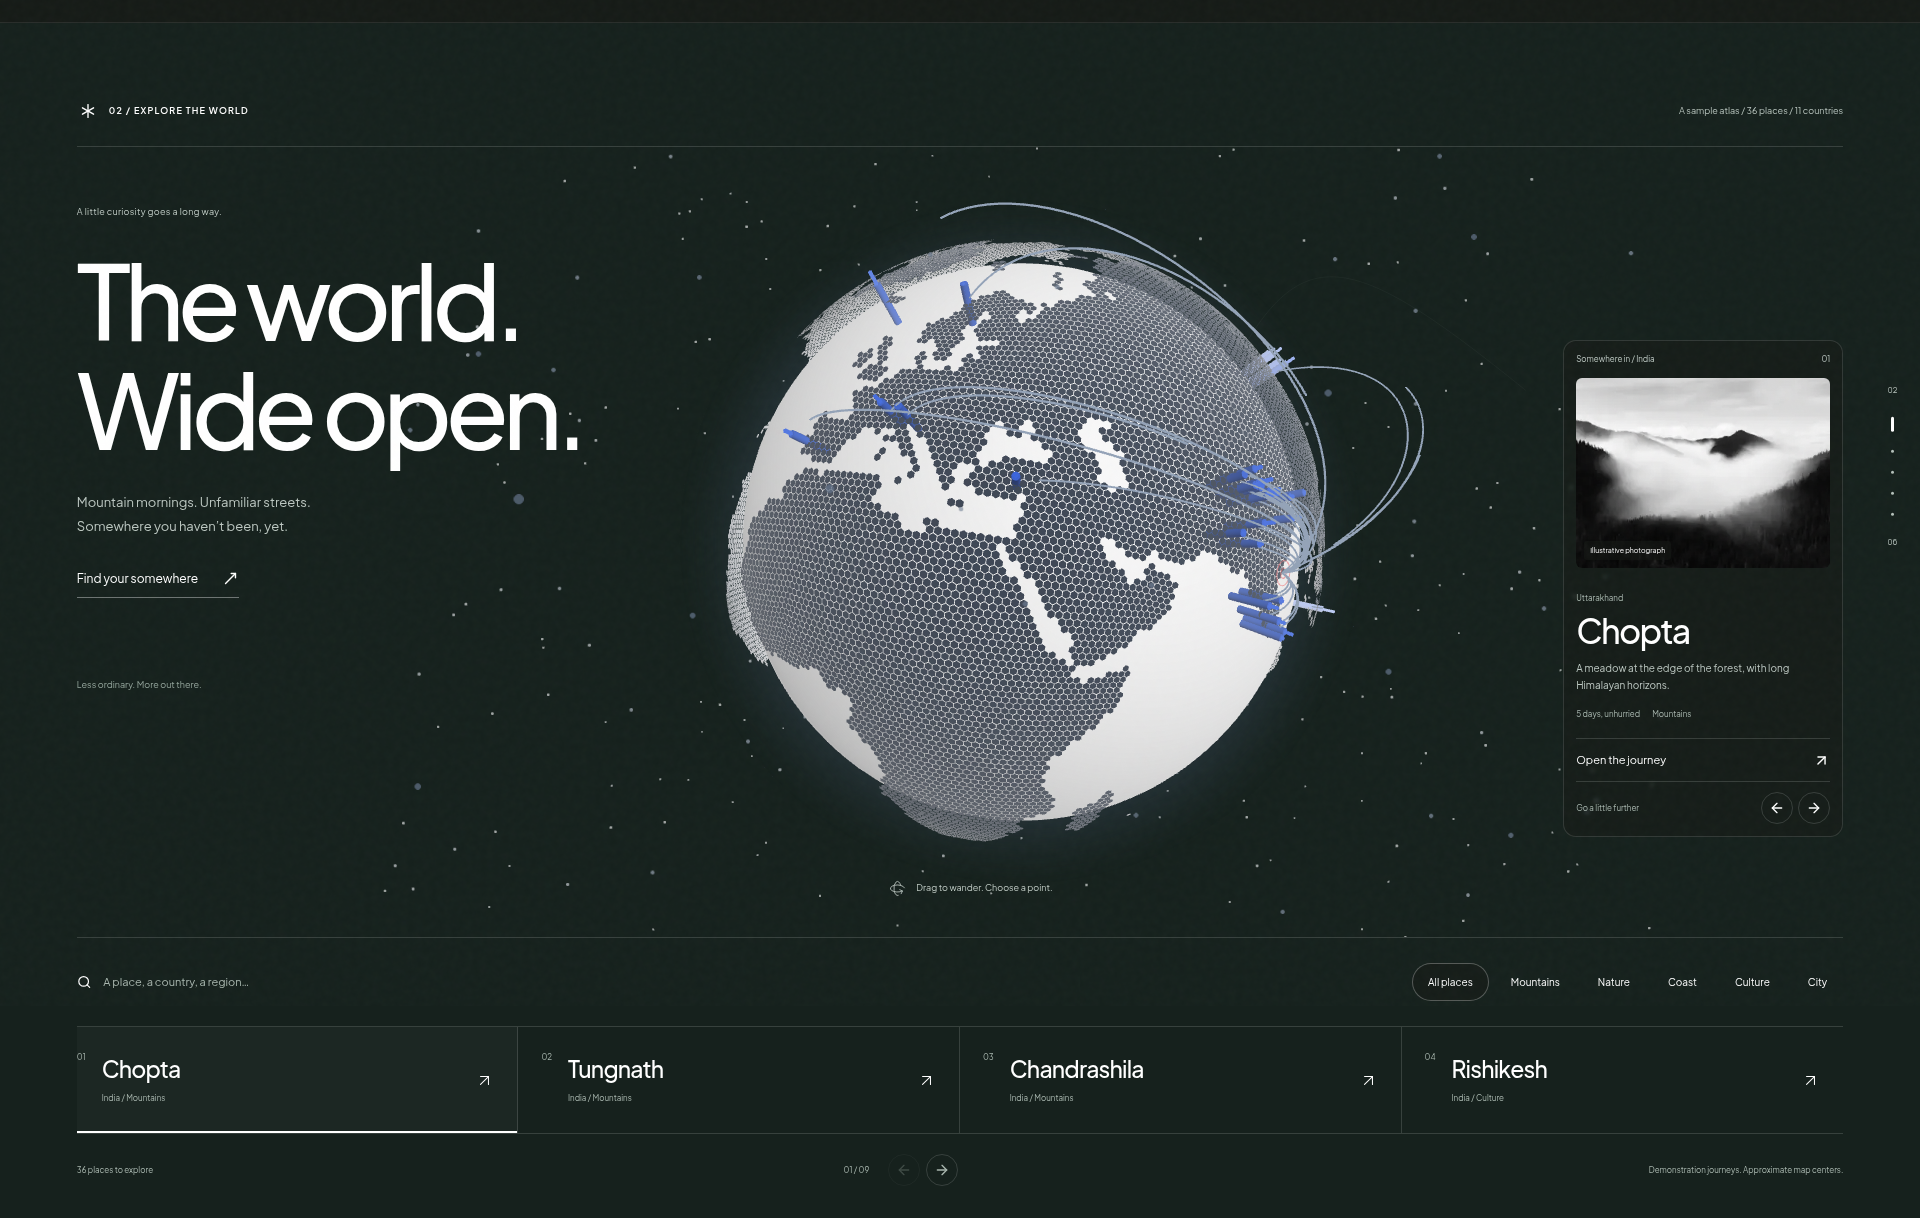
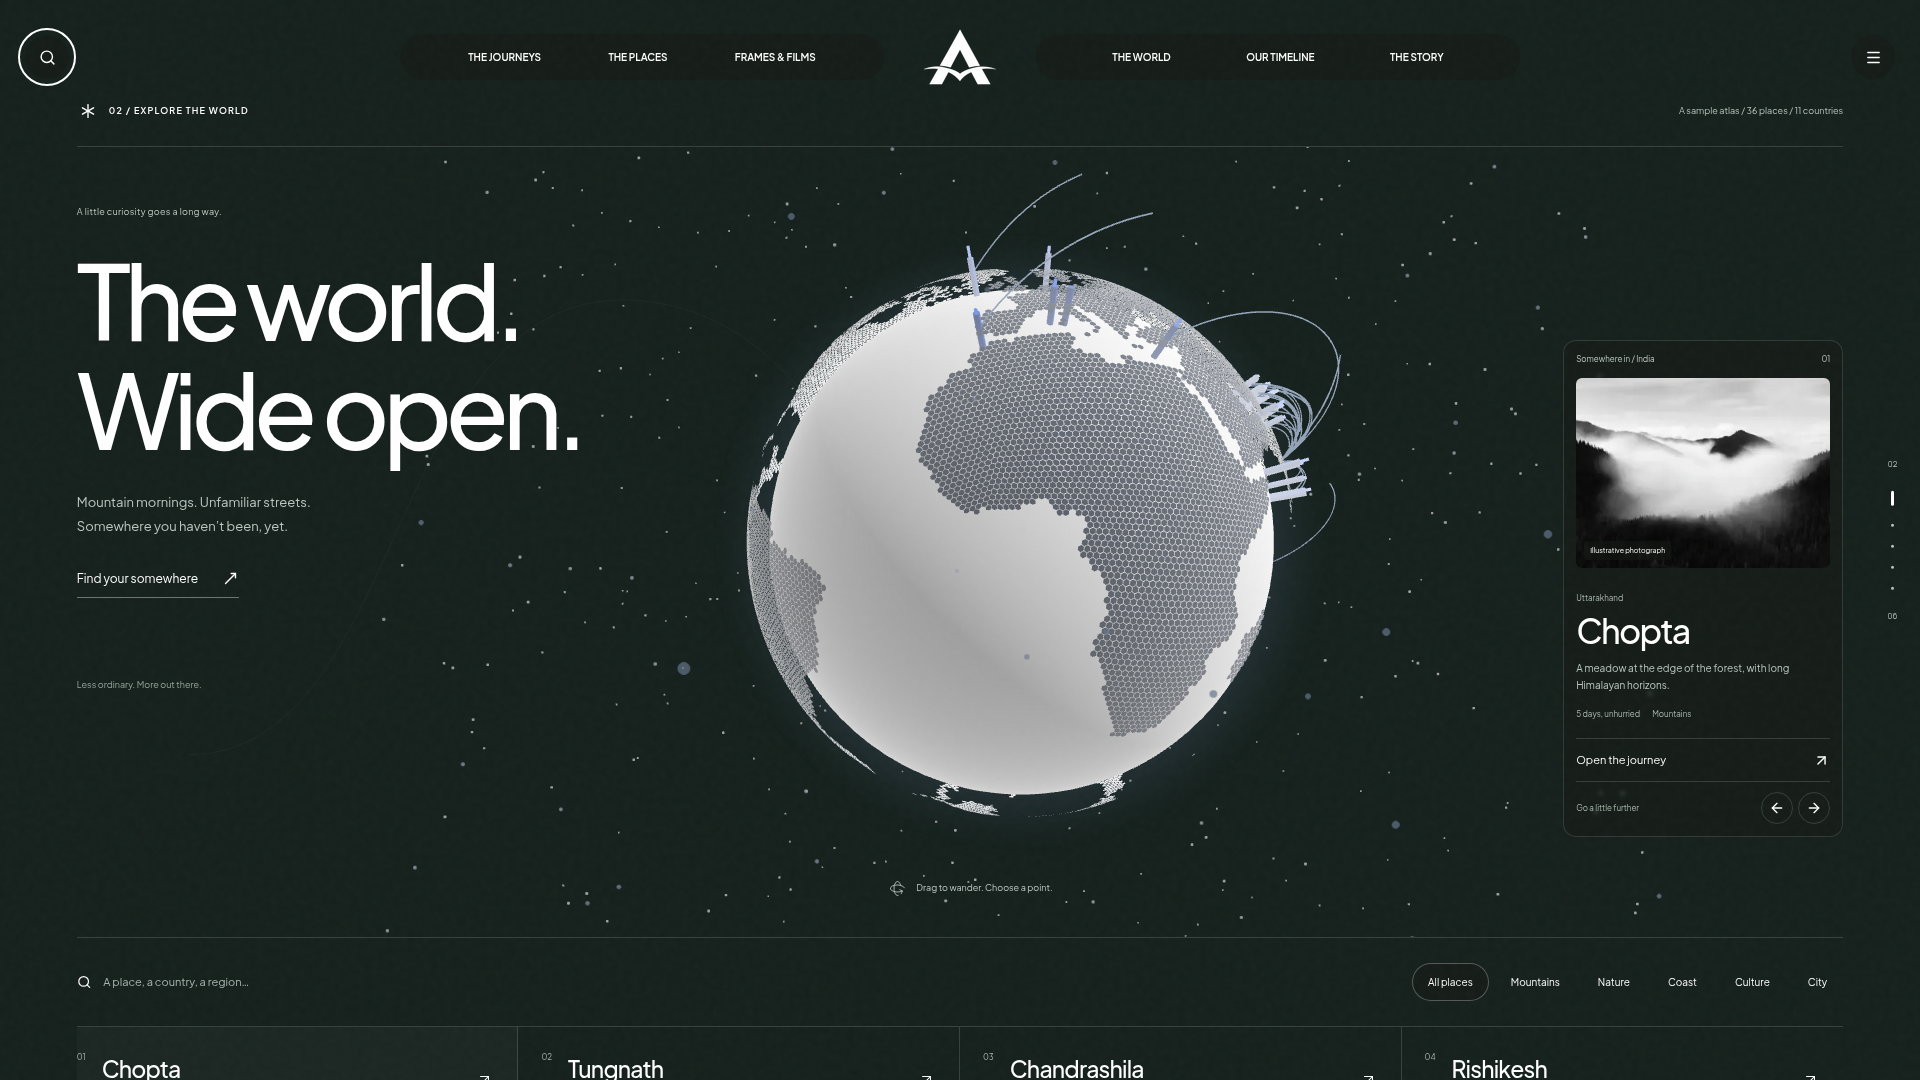
Keep the approved split pill navbar throughout the homepage

diff --git a/public/design-previews/index.html b/public/design-previews/index.html
@@ -2,7 +2,7 @@
 <html lang="en">
 <head><meta charset="utf-8"><meta name="viewport" content="width=device-width,initial-scale=1"><meta name="robots" content="noindex,nofollow"><title>Life Atlas — Design previews</title>
 <style>*{box-sizing:border-box}body{margin:0;background:#101918;color:#fff;font:16px/1.5 system-ui,sans-serif}main{max-width:1200px;margin:auto;padding:32px 20px 70px}h1{font-size:clamp(28px,4vw,46px);letter-spacing:-.04em;margin:0 0 12px}p{color:#b9c9c4}nav{display:flex;gap:10px;flex-wrap:wrap;margin:24px 0}a{color:inherit}nav a,.download{display:inline-block;border:1px solid #ffffff40;padding:10px 16px;border-radius:8px;text-decoration:none}section{margin-top:45px;scroll-margin-top:20px}h2{font-size:24px;margin:0 0 14px}img{display:block;width:100%;height:auto;border-radius:12px;background:#182420}section p{font-size:14px}.download{background:#fff;color:#101918;font-weight:600}a:focus-visible{outline:3px solid #a6d5ff;outline-offset:4px}</style></head>
-<body><main><h1>The world, taking shape.</h1><p>The current globe section and hero discovery cards, followed by the earlier card concepts. Rendered previews use clearly labelled demonstration journeys.</p><a class="download" href="life-atlas-card-options.pdf" download>Download all three designs as PDF</a><section id="globe"><h2>The globe — The world, wide open.</h2><p>Rendered desktop and mobile layouts. The original interactive globe is surrounded by white editorial type, a destination preview, search and a place browser.</p><a href="/#observatory"><img src="globe-desktop.png" alt="Life Atlas globe scene with a large white heading, hexagonal globe and destination preview" width="1920" height="1218" loading="lazy"></a><p><a href="globe-mobile.png">View the full mobile layout</a> · <a href="/#observatory">Explore the live globe section</a></p></section><section id="implemented"><h2>Current implementation — Trip photos & illustrated globe</h2><p>Rendered website preview with demonstration data. The gallery uses photographs from two different trip journals, and the earlier illustrated globe card is restored. The original interactive globe is still available through the card link.</p><a href="/"><img src="implemented-cards.png" alt="Overlapping trip photographs beside the restored illustrated globe and latest-trip card" width="398" height="350" style="max-width:600px;width:100%;height:auto"></a><p><a href="/">Open the updated website</a></p></section><nav aria-label="Design options"><a href="#option-1">Option 1</a><a href="#option-2">Option 2</a><a href="#option-3">Option 3</a></nav>
+<body><main><h1>The world, taking shape.</h1><p>The current globe section and hero discovery cards, followed by the earlier card concepts. Rendered previews use clearly labelled demonstration journeys.</p><a class="download" href="life-atlas-card-options.pdf" download>Download all three designs as PDF</a><section id="globe"><h2>The globe — The world, wide open.</h2><p>Rendered desktop and mobile layouts. The original interactive globe is surrounded by white editorial type, a destination preview, search and a place browser.</p><a href="/#observatory"><img src="globe-desktop.png" alt="Life Atlas globe scene with a large white heading, hexagonal globe and destination preview" width="1920" height="1080" loading="lazy"></a><p><a href="globe-mobile.png">View the full mobile layout</a> · <a href="/#observatory">Explore the live globe section</a></p></section><section id="implemented"><h2>Current implementation — Trip photos & illustrated globe</h2><p>Rendered website preview with demonstration data. The gallery uses photographs from two different trip journals, and the earlier illustrated globe card is restored. The original interactive globe is still available through the card link.</p><a href="/"><img src="implemented-cards.png" alt="Overlapping trip photographs beside the restored illustrated globe and latest-trip card" width="398" height="350" style="max-width:600px;width:100%;height:auto"></a><p><a href="/">Open the updated website</a></p></section><nav aria-label="Design options"><a href="#option-1">Option 1</a><a href="#option-2">Option 2</a><a href="#option-3">Option 3</a></nav>
 <section id="option-1"><h2>1 — Cinematic Windows</h2><a href="option-1.png"><img src="option-1.png" alt="Option 1: layered panoramic landscapes beside a detailed sunlit Earth" width="1536" height="1024"></a><p><a href="option-1.png" download>Download original image</a></p></section>
 <section id="option-2"><h2>2 — The Collector’s Atlas</h2><a href="option-2.png"><img src="option-2.png" alt="Option 2: floating photographic prints beside a sculptural graphite globe" loading="lazy" width="1568" height="1003"></a><p><a href="option-2.png" download>Download original image</a></p></section>
 <section id="option-3"><h2>3 — Worlds Within</h2><a href="option-3.png"><img src="option-3.png" alt="Option 3: photographic windows in perspective beside Earth at night with a dawn horizon" loading="lazy" width="1536" height="1024"></a><p><a href="option-3.png" download>Download original image</a></p></section>

diff --git a/src/components/world/WorldNavigation.tsx b/src/components/world/WorldNavigation.tsx
@@ -1,10 +1,13 @@
 "use client";
 import Image from "next/image";
+import Link from "next/link";
+import { Plus_Jakarta_Sans } from "next/font/google";
 import { useEffect, useState } from "react";
-import { ArrowUpRight, Compass, Menu } from "lucide-react";
+import { ArrowUpRight, Search, Menu } from "lucide-react";
 import { useLenis } from "lenis/react";
 import { Modal } from "./primitives";
 import { navigateChapter, returnToDoor } from "./navigation";
+const typography = Plus_Jakarta_Sans({ subsets: ["latin"], weight: ["400", "500", "600"], variable: "--font-world-navigation", display: "swap" });
 export const chapters = [
   ["observatory", "The Observatory"],
   ["on-the-road", "The art of going"],
@@ -81,52 +84,29 @@ export default function WorldNavigation() {
       <nav
         aria-label="World chapters"
         data-scene={active}
-        className={`world-nav ${visible ? "is-visible" : ""}`}
+        className={`${typography.variable} world-nav reference-world-nav ${visible ? "is-visible" : ""}`}
         inert={!visible}
       >
-        <button
-          className="world-wordmark atlas-logo-brand"
-          aria-label="Life Atlas home"
-          onClick={() => navigate("top")}
-        >
-          <Image
-            src="/brand/life-atlas-black.png"
-            width={84}
-            height={56}
-            sizes="84px"
-            alt=""
-          />
+        <button className="reference-nav-round" aria-label="Search the atlas" onClick={() => window.dispatchEvent(new Event("open-search"))}>
+          <Search size={17} />
         </button>
-        <div className="world-nav-links">
-          {[
-            ["observatory", "Discover"],
-            ["expeditions", "Journeys"],
-            ["memories", "Frames & films"],
-          ].map(([id, name]) => (
-            <button
-              key={id}
-              onClick={() => navigate(id)}
-              aria-current={active === id ? "location" : undefined}
-            >
-              {name}
-            </button>
-          ))}
+        <div className="reference-nav-center">
+          <div className="reference-nav-pill">
+            <Link href="/trips">The journeys</Link>
+            <Link href="/places">The places</Link>
+            <Link href="/photography">Frames &amp; films</Link>
+          </div>
+          <button className="reference-nav-brand" aria-label="Life Atlas home" onClick={() => navigate("top")}>
+            <Image src="/brand/life-atlas-black.png" width={96} height={64} sizes="96px" alt="" />
+          </button>
+          <div className="reference-nav-pill">
+            <button onClick={() => navigate("observatory")}>The world</button>
+            <Link href="/timeline">Our timeline</Link>
+            <Link href="/about">The story</Link>
+          </div>
         </div>
-        <button
-          className="world-nav-explore"
-          onClick={() => setOpen(true)}
-          aria-expanded={open}
-          aria-controls="world-chapter-menu"
-        >
-          The atlas <Compass size={16} />
-        </button>
-        <button
-          className="world-nav-mobile world-icon"
-          onClick={() => setOpen(true)}
-          aria-label="Open chapter menu"
-          aria-expanded={open}
-        >
-          <Menu size={22} />
+        <button className="reference-nav-round" aria-label="The atlas" onClick={() => setOpen(true)} aria-expanded={open} aria-controls="world-chapter-menu">
+          <Menu size={17} />
         </button>
       </nav>
       {open && (

diff --git a/src/components/world/observatory.css b/src/components/world/observatory.css
@@ -185,3 +185,24 @@
 }
 
 .observatory-destination-list > button[aria-pressed="true"] { box-shadow: inset 0 -2px 0 #fff; }
+
+/* Keep the approved reference-inspired navigation throughout the homepage. */
+.world-nav.reference-world-nav {
+  --w-focus: #fff;
+  top: 25px; left: 25px; right: 25px;
+  padding: 0; gap: 30px; border: 0;
+  background: transparent; backdrop-filter: none;
+  color: #fff; font-family: var(--font-world-navigation), sans-serif;
+}
+.reference-nav-center { display: flex; align-items: center; justify-content: center; gap: 28px; width: min(1120px, 75vw); }
+.reference-nav-pill { display: flex; flex: 1; align-items: center; justify-content: space-evenly; gap: 22px; min-height: 46px; padding: 0 23px; border-radius: 40px; background: #171a177d; backdrop-filter: blur(2px); }
+.reference-world-nav .reference-nav-pill :is(a, button) { padding: 0; background: none; border: 0; color: white; font: 600 10px var(--font-world-navigation), sans-serif; text-transform: uppercase; white-space: nowrap; }
+.reference-nav-brand { display: grid; place-items: center; flex: 0 0 96px; border: 0; padding: 0; background: none; cursor: pointer; }
+.reference-nav-brand img { width: 96px; height: 64px; object-fit: contain; filter: brightness(0) invert(1); }
+.reference-nav-round { display: grid; place-items: center; width: 44px; height: 44px; flex-shrink: 0; padding: 0; border: 0; border-radius: 50%; background: #171a177d; backdrop-filter: blur(2px); color: white; cursor: pointer; }
+@media (max-width: 1050px) { .reference-nav-pill { gap: 12px; padding-inline: 15px; } .reference-nav-center { gap: 16px; } }
+@media (max-width: 700px) {
+  .world-nav.reference-world-nav { top: 20px; left: 20px; right: 20px; gap: 15px; }
+  .reference-nav-pill { display: none; }
+  .reference-nav-center { flex: 1; width: auto; }
+}

diff --git a/src/components/world/navigation.ts b/src/components/world/navigation.ts
@@ -7,6 +7,7 @@ export async function navigateChapter(
   immediate = false,
 ) {
   const request = ++latestNavigation;
+  const offset = id === "observatory" ? 0 : 74;
   window.dispatchEvent(
     new CustomEvent("world-chapter-request", { detail: id }),
   );
@@ -47,7 +48,7 @@ export async function navigateChapter(
     lenis.resize();
     // Numeric destinations avoid adding the scene’s CSS scroll-margin a second time.
     const position = () =>
-      window.scrollY + target.getBoundingClientRect().top - 74;
+      window.scrollY + target.getBoundingClientRect().top - offset;
     lenis.scrollTo(position(), {
       force: true,
       duration: reduce ? 0 : 1.3,
@@ -58,7 +59,7 @@ export async function navigateChapter(
         requestAnimationFrame(() => requestAnimationFrame(() => {
           if (request !== latestNavigation || !target.isConnected || rendered() !== target) return;
           lenis.resize();
-          if (Math.abs(target.getBoundingClientRect().top - 74) > 5)
+          if (Math.abs(target.getBoundingClientRect().top - offset) > 5)
             lenis.scrollTo(position(), {
               duration: reduce ? 0 : 0.35,
               force: true,
@@ -70,7 +71,7 @@ export async function navigateChapter(
 
   } else
     window.scrollTo({
-      top: window.scrollY + target.getBoundingClientRect().top - 74,
+      top: window.scrollY + target.getBoundingClientRect().top - offset,
       behavior: reduce ? "instant" : "smooth",
     });
   history.replaceState(null, "", `#${id}`);

diff --git a/src/components/world/README.md b/src/components/world/README.md
@@ -1,3 +1,11 @@
+# Approved navigation continuity
+
+The homepage chapter navigation retains the hero’s split rounded pill groups,
+centred white Atlas mark, 2px blur and circular search/menu controls. Mobile keeps
+the centred mark and touch controls. The globe entry aligns to the viewport top
+so the transparent floating header sits over the globe scene. The approved hero
+and globe source remain unchanged.
+
 # The world, wide open — globe scene
 
 The Observatory now continues the approved film hero's white typography, Jakarta
